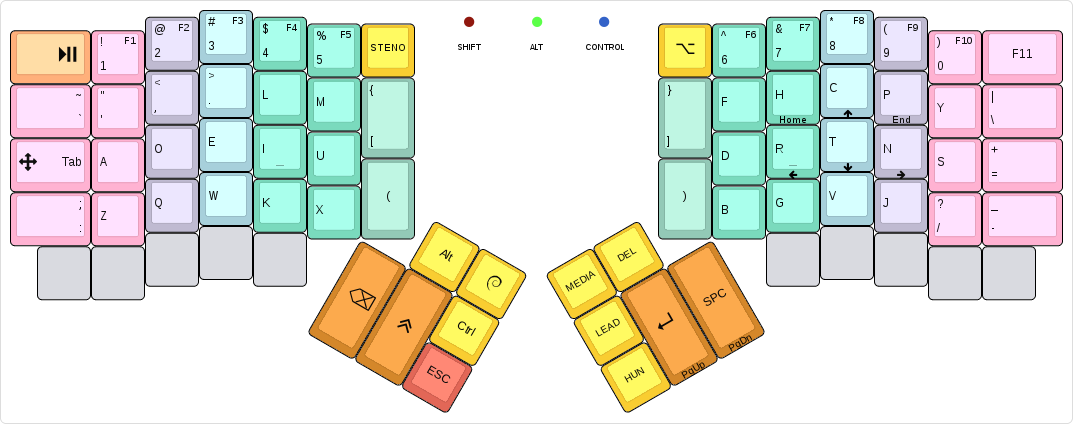
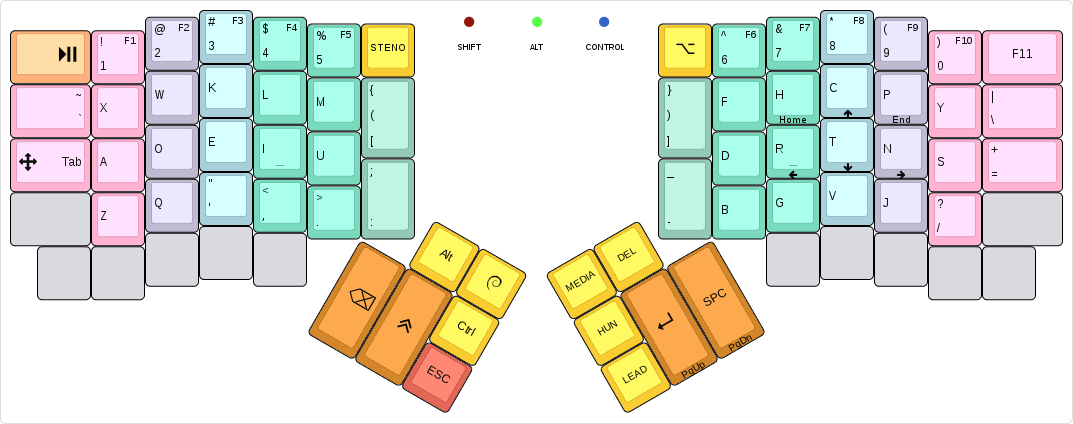
ADORE: Another set of major updates
This is another fairly major change, involving punctuation, parens,
brackets, and a few alphas too.

This addresses most of the things in #77, but I still have to experiment
with the layout, a lot.

Things feel okay on the first few tries, though, which is promising.

diff --git a/keymap.c b/keymap.c
@@ -88,6 +88,8 @@ enum {
   CT_CLN = 0,
   CT_MNS,
   CT_TA,
+  CT_LBP,
+  CT_RBP
 };
 
 /* States & timers */
@@ -156,28 +158,28 @@ const uint16_t PROGMEM keymaps[][MATRIX_ROWS][MATRIX_COLS] = {
  * ,-----------------------------------------------------.           ,-----------------------------------------------------.
  * | Play/Pause| 1 F1 | 2 F2 | 3 F3 | 4 F4 | 5 F5 | Apps |           | Apps | 6 F6 | 7 F7 | 8 F8 | 9 F9 | 0 F10|       F11 |
  * |-----------+------+------+------+------+-------------|           |------+------+------+------+------+------+-----------|
- * |        `~ |   '  |   ,  |   .  |   L  |   M  |   [  |           |  ]   |   F  |   H  |   C  |   P  |  Y   | \         |
- * |-----------+------+------+------+------+------|      |           |      |------+------+------+------+------+-----------|
+ * |        `~ |   X  |   W  |   K  |   L  |   M  |   (  |           |  )   |   F  |   H  |   C  |   P  |  Y   | \         |
+ * |-----------+------+------+------+------+------|   [  |           |  ]   |------+------+------+------+------+-----------|
  * | Tab/Arrow |   A  |   O  |   E  |   I  |   U  |------|           |------|   D  |   R  |   T  |   N  |  S   | =         |
- * |-----------+------+------+------+------+------|   (  |           |  )   |------+------+------+------+------+-----------|
- * |         : |   Z  |   Q  |   W  |   K  |   X  |      |           |      |   B  |   G  |   V  |   J  |  /   | -         |
+ * |-----------+------+------+------+------+------|      |           |      |------+------+------+------+------+-----------|
+ * |           |   Z  |   Q  |   '  |   ,  |   .  |   :  |           |  -   |   B  |   G  |   V  |   J  |  /   |           |
  * `-----------+------+------+------+------+-------------'           `-------------+------+------+------+------+-----------'
  *     |       |      |      |      |      |                                       |      |      |      |      |       |
  *     `-----------------------------------'                                       `-----------------------------------'
  *                                         ,-------------.           ,-------------.
  *                                         | LAlt | GUI  |           | MDIA | Del  |
  *                                  ,------|------|------|           |------+------+------.
- *                                  |      |      | Ctrl |           | LEAD |      |      |
+ *                                  |      |      | Ctrl |           | HUN  |      |      |
  *                                  |Backsp|LShift|------|           |------| Enter| Space|
- *                                  |      |      | ESC  |           | HUN  |      |      |
+ *                                  |      |      | ESC  |           | LEAD |      |      |
  *                                  `--------------------'           `--------------------'
  */
 [ADORE] = KEYMAP(
 // left hand
  KC_MPLY            ,M(KF_1)     ,M(KF_2)     ,M(KF_3),M(KF_4),M(KF_5),KC_APP
-,KC_GRV             ,KC_QUOT     ,KC_COMM     ,KC_DOT ,KC_L   ,KC_M   ,KC_LBRC
+,KC_GRV             ,KC_X        ,KC_W        ,KC_K   ,KC_L   ,KC_M   ,TD(CT_LBP)
 ,TD(CT_TA)          ,KC_A        ,KC_O        ,KC_E   ,KC_I   ,KC_U
-,TD(CT_CLN)         ,KC_Z        ,KC_Q        ,KC_W   ,KC_K   ,KC_X   ,KC_LPRN
+,KC_NO              ,KC_Z        ,KC_Q        ,KC_QUOT,KC_COMM,KC_DOT ,TD(CT_CLN)
 ,KC_NO              ,KC_NO       ,KC_NO       ,KC_NO  ,KC_NO
 
                                                             ,F(F_ALT),F(F_GUI)
@@ -186,14 +188,14 @@ const uint16_t PROGMEM keymaps[][MATRIX_ROWS][MATRIX_COLS] = {
 
                                                                 // right hand
                                                                ,KC_APP    ,M(KF_6),M(KF_7),M(KF_8),M(KF_9) ,M(KF_10) ,KC_F11
-                                                               ,KC_RBRC   ,KC_F   ,KC_H   ,KC_C   ,KC_P    ,KC_Y     ,KC_BSLS
+                                                               ,TD(CT_RBP),KC_F   ,KC_H   ,KC_C   ,KC_P    ,KC_Y     ,KC_BSLS
                                                                           ,KC_D   ,KC_R   ,KC_T   ,KC_N    ,KC_S     ,KC_EQL
-                                                               ,KC_RPRN   ,KC_B   ,KC_G   ,KC_V   ,KC_J    ,KC_SLSH  ,TD(CT_MNS)
+                                                               ,TD(CT_MNS),KC_B   ,KC_G   ,KC_V   ,KC_J    ,KC_SLSH  ,KC_NO
                                                                                   ,KC_NO  ,KC_NO  ,KC_NO   ,KC_NO    ,KC_NO
 
                                                                ,OSL(NMDIA),KC_DEL
-                                                               ,KC_LEAD
-                                                               ,F(F_HUN)  ,KC_ENT ,KC_SPC
+                                                               ,F(F_HUN)
+                                                               ,KC_LEAD   ,KC_ENT ,KC_SPC
     ),
 
 /* Keymap 2: Arrow layer
@@ -781,6 +783,41 @@ void ang_tap (uint16_t codes[]) {
   register_code (code); \
   unregister_code (code)
 
+void ang_tap_dance_bp_finished (qk_tap_dance_state_t *state, void *user_data) {
+  bool left, parens;
+
+  if (state->count > 2) {
+    state->count = 0;
+    return;
+  }
+
+  if (state->keycode == TD(CT_LBP))
+    left = true;
+  else
+    left = false;
+
+  if (state->count == 1)
+    parens = false;
+  else
+    parens = true;
+
+  if (parens) {
+    register_code (KC_RSFT);
+    if (left) {
+      TAP_ONCE(KC_9);
+    } else {
+      TAP_ONCE(KC_0);
+    }
+    unregister_code (KC_RSFT);
+  } else {
+    if (left) {
+      TAP_ONCE (KC_LBRC);
+    } else {
+      TAP_ONCE (KC_RBRC);
+    }
+  }
+}
+
 void ang_tap_dance_cln_finished (qk_tap_dance_state_t *state, void *user_data) {
   if (state->count == 1) {
     register_code (KC_RSFT);
@@ -867,6 +904,8 @@ const qk_tap_dance_action_t tap_dance_actions[] = {
      .fn = { NULL, ang_tap_dance_ta_finished, ang_tap_dance_ta_reset },
      .user_data = (void *)&((td_ta_state_t) { false, false, false })
    }
+  ,[CT_LBP] = ACTION_TAP_DANCE_FN (ang_tap_dance_bp_finished)
+  ,[CT_RBP] = ACTION_TAP_DANCE_FN (ang_tap_dance_bp_finished)
 };
 
 // Runs constantly in the background, in a loop.
